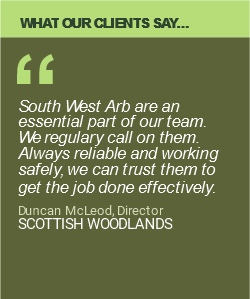
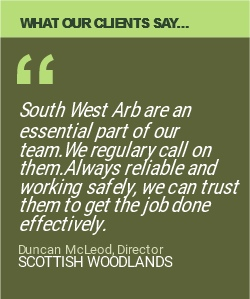
southwest arb - fix menu edgepadding (sorta)

Changed region(s): [[0.056, 0.3311, 0.98, 0.7826], [0.056, 0.8127, 0.7, 0.903]]

diff --git a/www/yii/southwest-arb.co.uk/scripts/jelly/header.css b/www/yii/southwest-arb.co.uk/scripts/jelly/header.css
@@ -1,6 +1,6 @@
 <!-- Place your Google fonts here as a cut and paste then choose which header and fonts etc need the font families - NB if the family only come in Italic then you must state the font style as Italic too -->
 
-<link href='http://fonts.googleapis.com/css?family=Molle:400italic|Open+Sans:300italic,400,700' rel='stylesheet' type='text/css'>
+<link href='http://fonts.googleapis.com/css?family=Open+Sans:400italic,400,700,800' rel='stylesheet' type='text/css'>
 
 <style type="text/css">
 
@@ -13,44 +13,43 @@ html, body, p {	height: 100%;
 
 /* Global Hyperlink settings - will affect menu text colour if no text settings */ 
 a { text-decoration: none; color:#00ad44; }
-a:visited { text-decoration: none; color:#fc8d3d; }
-a:hover { text-decoration: none; color:#00adc9; }
-a:active { text-decoration: none; color:#00adc9 }
+a:visited { text-decoration: underline; color:#9cb871; }
+a:hover { text-decoration: none; color:#b1d180; }
+a:active { text-decoration: underline; color:#9cb871 }
 
 
 
-h1 {	font-family: 'Molle', Verdana, sans-serif !important;
-	color: #00ad44;
+h1 {	font-family: 'Open Sans', Verdana, sans-serif !important;
+	color: #46593e;
 	font-size: 32px;
-	font-weight: 400;
-	font-style: italic;
-	text-shadow: 3px 3px 2px lightgrey;}
+	font-weight: 700;
+	line-height: 120%;
+	text-shadow: 5px 5px 1px #eeeeee;}
 
-h2 {	font-family: 'Molle', Verdana, sans-serif !important;
-	color: #00ad44;
-	font-size: 28px;
+h2 {	font-family: 'Open Sans', Verdana, sans-serif !important;
+	color: black;
+	font-size: 18px;
 	font-weight: 400;
-	font-style: italic;
-	text-shadow: 2px 2px 5px lightgrey;}
+	line-height: 120%;}
 
 
 h3 {	font-family: 'Open Sans', Verdana, sans-serif !important;
-	color: #00ad44;
+	color: #46593e;
 	font-size: 20px;
 	font-weight: 700;
 	font-stretch: wider;}
 
 h4 {	font-family: 'Open Sans', Verdana, sans-serif !important;
-	color: #00ad44;
+	color: #46593e;
 	font-size: 16px;
 	font-weight: 700;
 	font-stretch: wider;}
 
 p  {	font-family: 'Open Sans', Verdana, sans-serif !important;
-	color: #000000;
+	color: #46593e;
 	font-size: 14px;
-	font-weight: normal
-	font-stretch: expanded}
+	font-weight: normal;
+	line-height: 120%;}
 
 blockquote {font-family: 'Open Sans', Verdana, sans-serif !important;
 	color: #5b5b5b;

diff --git a/www/yii/common/scripts/jelly-0.1.4/addon/menu/traditional/traditional.php b/www/yii/common/scripts/jelly-0.1.4/addon/menu/traditional/traditional.php
@@ -140,7 +140,7 @@ class traditional
 		if ($this->default_width != "")
 		{
 			if ($this->default_orientation == "horizontal")
-				$this->apiHtml = str_replace("<substitute-width>", "nav ul {width: $this->default_width" . "px;}", $this->apiHtml);
+				$this->apiHtml = str_replace("<substitute-width>", "xnav ul {width: $this->default_width" . "px;}", $this->apiHtml);
 			else
 				$this->apiHtml = str_replace("<substitute-width>", "xnav ul {width: $this->default_width" . "px;}", $this->apiHtml);
 		}
